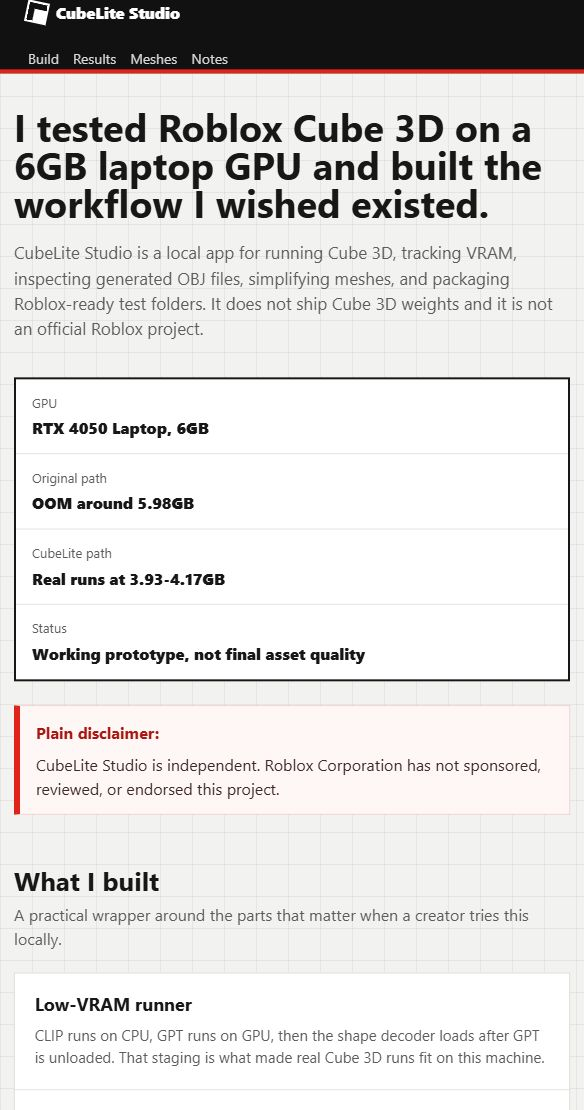
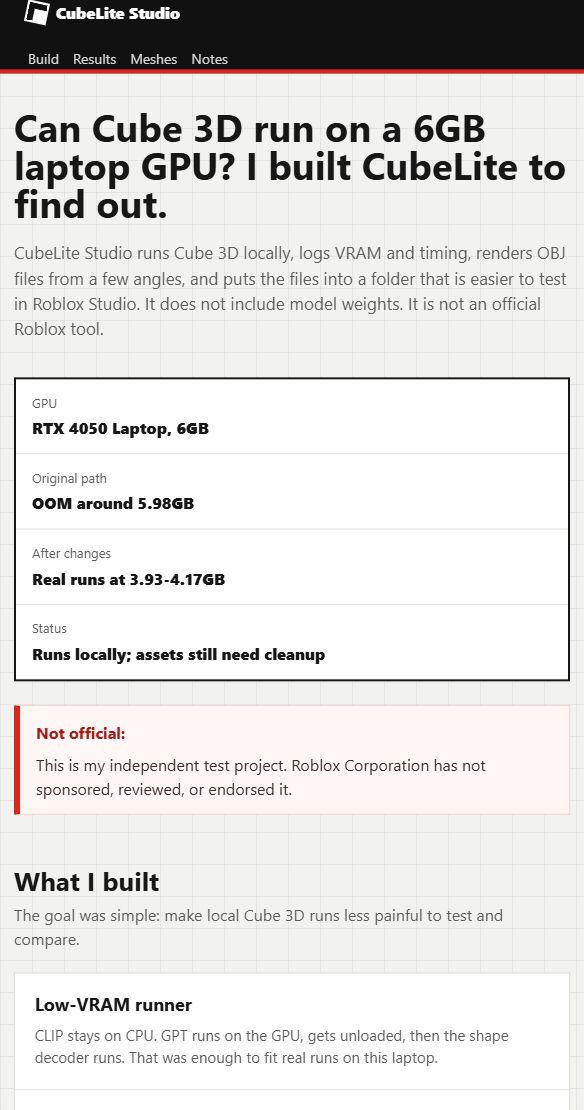
Make case study copy more direct

diff --git a/docs/index.html b/docs/index.html
@@ -4,8 +4,8 @@
   <meta charset="utf-8">
   <meta name="viewport" content="width=device-width, initial-scale=1">
   <title>CubeLite Studio</title>
-  <meta name="description" content="A local Cube 3D workflow and benchmark project for Roblox creators running consumer GPUs.">
-  <link rel="stylesheet" href="styles.css?v=20260522-roblox">
+  <meta name="description" content="Local Cube 3D tests, VRAM notes, and Roblox OBJ export helpers.">
+  <link rel="stylesheet" href="styles.css?v=20260522-plain">
 </head>
 <body>
   <header class="topbar">
@@ -24,11 +24,11 @@
   <main id="top">
     <section class="intro">
       <div>
-        <h1>I tested Roblox Cube 3D on a 6GB laptop GPU and built the workflow I wished existed.</h1>
+        <h1>Can Cube 3D run on a 6GB laptop GPU? I built CubeLite to find out.</h1>
         <p>
-          CubeLite Studio is a local app for running Cube 3D, tracking VRAM, inspecting generated OBJ files,
-          simplifying meshes, and packaging Roblox-ready test folders. It does not ship Cube 3D weights and it
-          is not an official Roblox project.
+          CubeLite Studio runs Cube 3D locally, logs VRAM and timing, renders OBJ files from a few angles,
+          and puts the files into a folder that is easier to test in Roblox Studio. It does not include model
+          weights. It is not an official Roblox tool.
         </p>
       </div>
       <dl class="run-card">
@@ -41,42 +41,42 @@
           <dd>OOM around 5.98GB</dd>
         </div>
         <div>
-          <dt>CubeLite path</dt>
+          <dt>After changes</dt>
           <dd>Real runs at 3.93-4.17GB</dd>
         </div>
         <div>
           <dt>Status</dt>
-          <dd>Working prototype, not final asset quality</dd>
+          <dd>Runs locally; assets still need cleanup</dd>
         </div>
       </dl>
     </section>
 
     <section class="notice">
-      <strong>Plain disclaimer:</strong>
-      <span>CubeLite Studio is independent. Roblox Corporation has not sponsored, reviewed, or endorsed this project.</span>
+      <strong>Not official:</strong>
+      <span>This is my independent test project. Roblox Corporation has not sponsored, reviewed, or endorsed it.</span>
     </section>
 
     <section id="build" class="section">
       <div class="section-title">
         <h2>What I built</h2>
-        <p>A practical wrapper around the parts that matter when a creator tries this locally.</p>
+        <p>The goal was simple: make local Cube 3D runs less painful to test and compare.</p>
       </div>
       <div class="feature-list">
         <article>
           <h3>Low-VRAM runner</h3>
-          <p>CLIP runs on CPU, GPT runs on GPU, then the shape decoder loads after GPT is unloaded. That staging is what made real Cube 3D runs fit on this machine.</p>
+          <p>CLIP stays on CPU. GPT runs on the GPU, gets unloaded, then the shape decoder runs. That was enough to fit real runs on this laptop.</p>
         </article>
         <article>
           <h3>Benchmark records</h3>
-          <p>Each run writes generation time, peak VRAM, triangle count, file size, readiness notes, logs, and error messages.</p>
+          <p>Every run saves the prompt, profile, time, peak VRAM, triangle count, file size, logs, and any error.</p>
         </article>
         <article>
           <h3>Mesh inspection</h3>
-          <p>The app renders front, side, back, top, and 3/4 views so bad geometry is obvious instead of hidden behind one pretty screenshot.</p>
+          <p>Each mesh gets front, side, back, top, and 3/4 renders. One nice angle is not enough.</p>
         </article>
         <article>
           <h3>Roblox test package</h3>
-          <p>Exports include the original OBJ, optimized OBJ when available, metadata, benchmark summary, render plate, and import notes.</p>
+          <p>The export folder includes the OBJ files, metadata, benchmark summary, render plate, and quick import notes.</p>
         </article>
       </div>
     </section>
@@ -84,7 +84,7 @@
     <section id="results" class="section results">
       <div class="section-title">
         <h2>Measured results</h2>
-        <p>These are local numbers from one laptop, not a claim about every machine.</p>
+        <p>One laptop, real runs, no broad claim.</p>
       </div>
       <table>
         <thead>
@@ -109,21 +109,21 @@
             <td>6GB Quality, seed 202</td>
             <td>4.16GB</td>
             <td>14,000</td>
-            <td>Best current chest. Needs Roblox Studio import testing.</td>
+            <td>Best chest so far. Still needs a Roblox Studio import pass.</td>
           </tr>
           <tr>
             <td>Wooden crate candidate</td>
             <td>6GB Quality, seed 404</td>
             <td>4.16GB</td>
             <td>12,000</td>
-            <td>Cleaner candidate than the first crate run.</td>
+            <td>Cleaner than the first crate run.</td>
           </tr>
           <tr>
             <td>Low-VRAM baseline</td>
             <td>Low VRAM</td>
             <td>3.93GB</td>
             <td>varies</td>
-            <td>Useful for proving the path works, not always best quality.</td>
+            <td>Good for testing the runner. Output quality varies.</td>
           </tr>
         </tbody>
       </table>
@@ -131,36 +131,36 @@
 
     <section id="meshes" class="section">
       <div class="section-title">
-        <h2>Current mesh candidates</h2>
-        <p>I would not call these finished marketplace-quality assets. They are the best local candidates so far, shown from multiple angles.</p>
+        <h2>Current meshes</h2>
+        <p>These are not finished Roblox assets. They are the best outputs I have locally right now.</p>
       </div>
       <div class="mesh-grid">
         <article class="mesh-card">
           <img src="assets/chest-quality-plate.png" alt="Multi-angle render plate of a Cube 3D treasure chest candidate">
           <div>
             <h3>Treasure chest</h3>
-            <p>Readable blocky prop. The back and top views are stronger than earlier attempts; the side still shows why cleanup matters.</p>
+            <p>Readable blocky prop. Better than the earlier chest, but the side view still needs cleanup.</p>
           </div>
         </article>
         <article class="mesh-card">
           <img src="assets/crate-plate.png" alt="Multi-angle render plate of a Cube 3D wooden crate candidate">
           <div>
             <h3>Wooden crate</h3>
-            <p>Best simple prop candidate. It has a clear cube silhouette and visible panel grooves from several angles.</p>
+            <p>The cleanest simple prop so far. Box shape is solid and the panel grooves read from several views.</p>
           </div>
         </article>
         <article class="mesh-card">
           <img src="assets/fantasy-sword-plate.png" alt="Multi-angle render plate of a Cube 3D fantasy sword candidate">
           <div>
             <h3>Fantasy sword</h3>
-            <p>Good prompt adherence, but it still needs scale checks and surface cleanup before I would present it as final.</p>
+            <p>The shape is recognizable, but it needs scale checks and surface cleanup before I would call it done.</p>
           </div>
         </article>
         <article class="mesh-card">
           <img src="assets/row-boat-plate.png" alt="Multi-angle render plate of a Cube 3D row boat candidate">
           <div>
             <h3>Row boat</h3>
-            <p>Kept as a useful baseline. Some views read well, others show rough geometry. That is exactly why the render plate exists.</p>
+            <p>Some angles work, some do not. I kept it because it shows why the multi-angle render matters.</p>
           </div>
         </article>
       </div>
@@ -169,20 +169,20 @@
     <section id="notes" class="section notes">
       <div class="section-title">
         <h2>What still needs work</h2>
-        <p>The project is stronger when the rough parts are visible.</p>
+        <p>The rough parts should stay visible until they are actually fixed.</p>
       </div>
       <div class="note-grid">
         <div>
           <h3>More candidate search</h3>
-          <p>The good outputs come from running multiple seeds and keeping the best candidate, not from pretending the first result is production-ready.</p>
+          <p>The better outputs came from running several seeds and keeping the best one. First result usually is not enough.</p>
         </div>
         <div>
           <h3>Roblox Studio import pass</h3>
-          <p>The next real test is import scale, normals, collision behavior, and whether cleanup in Studio is reasonable.</p>
+          <p>Next I need to check scale, normals, collisions, and how much cleanup is needed after import.</p>
         </div>
         <div>
-          <h3>Texture honesty</h3>
-          <p>Cube 3D currently generates geometry. Texture generation is listed upstream as future work, so CubeLite should not imply textured output.</p>
+          <h3>Textures</h3>
+          <p>Cube 3D is geometry-only right now. I should not make the page look like it generates textured assets.</p>
         </div>
       </div>
     </section>
@@ -190,7 +190,7 @@
 
   <footer>
     <span>CubeLite Studio</span>
-    <span>Independent workflow study around Roblox Cube 3D. No model weights redistributed.</span>
+    <span>Independent Cube 3D test project. No model weights redistributed.</span>
   </footer>
 </body>
 </html>
